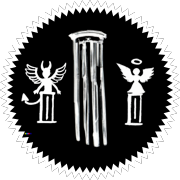
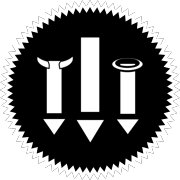
december23

Changed region(s): [[0.1111, 0.1667, 0.6111, 0.8333], [0.6111, 0.3056, 0.8611, 0.75], [0.1389, 0.7222, 0.1944, 0.75]]

diff --git a/doc/credits.md b/doc/credits.md
@@ -7,4 +7,4 @@
 
 ## Artwork
 
-- [art](https://commons.wikimedia.org/)
+- [art](https://publicdomainvectors.org/en/free-clipart/Black-angel/56334.html)
